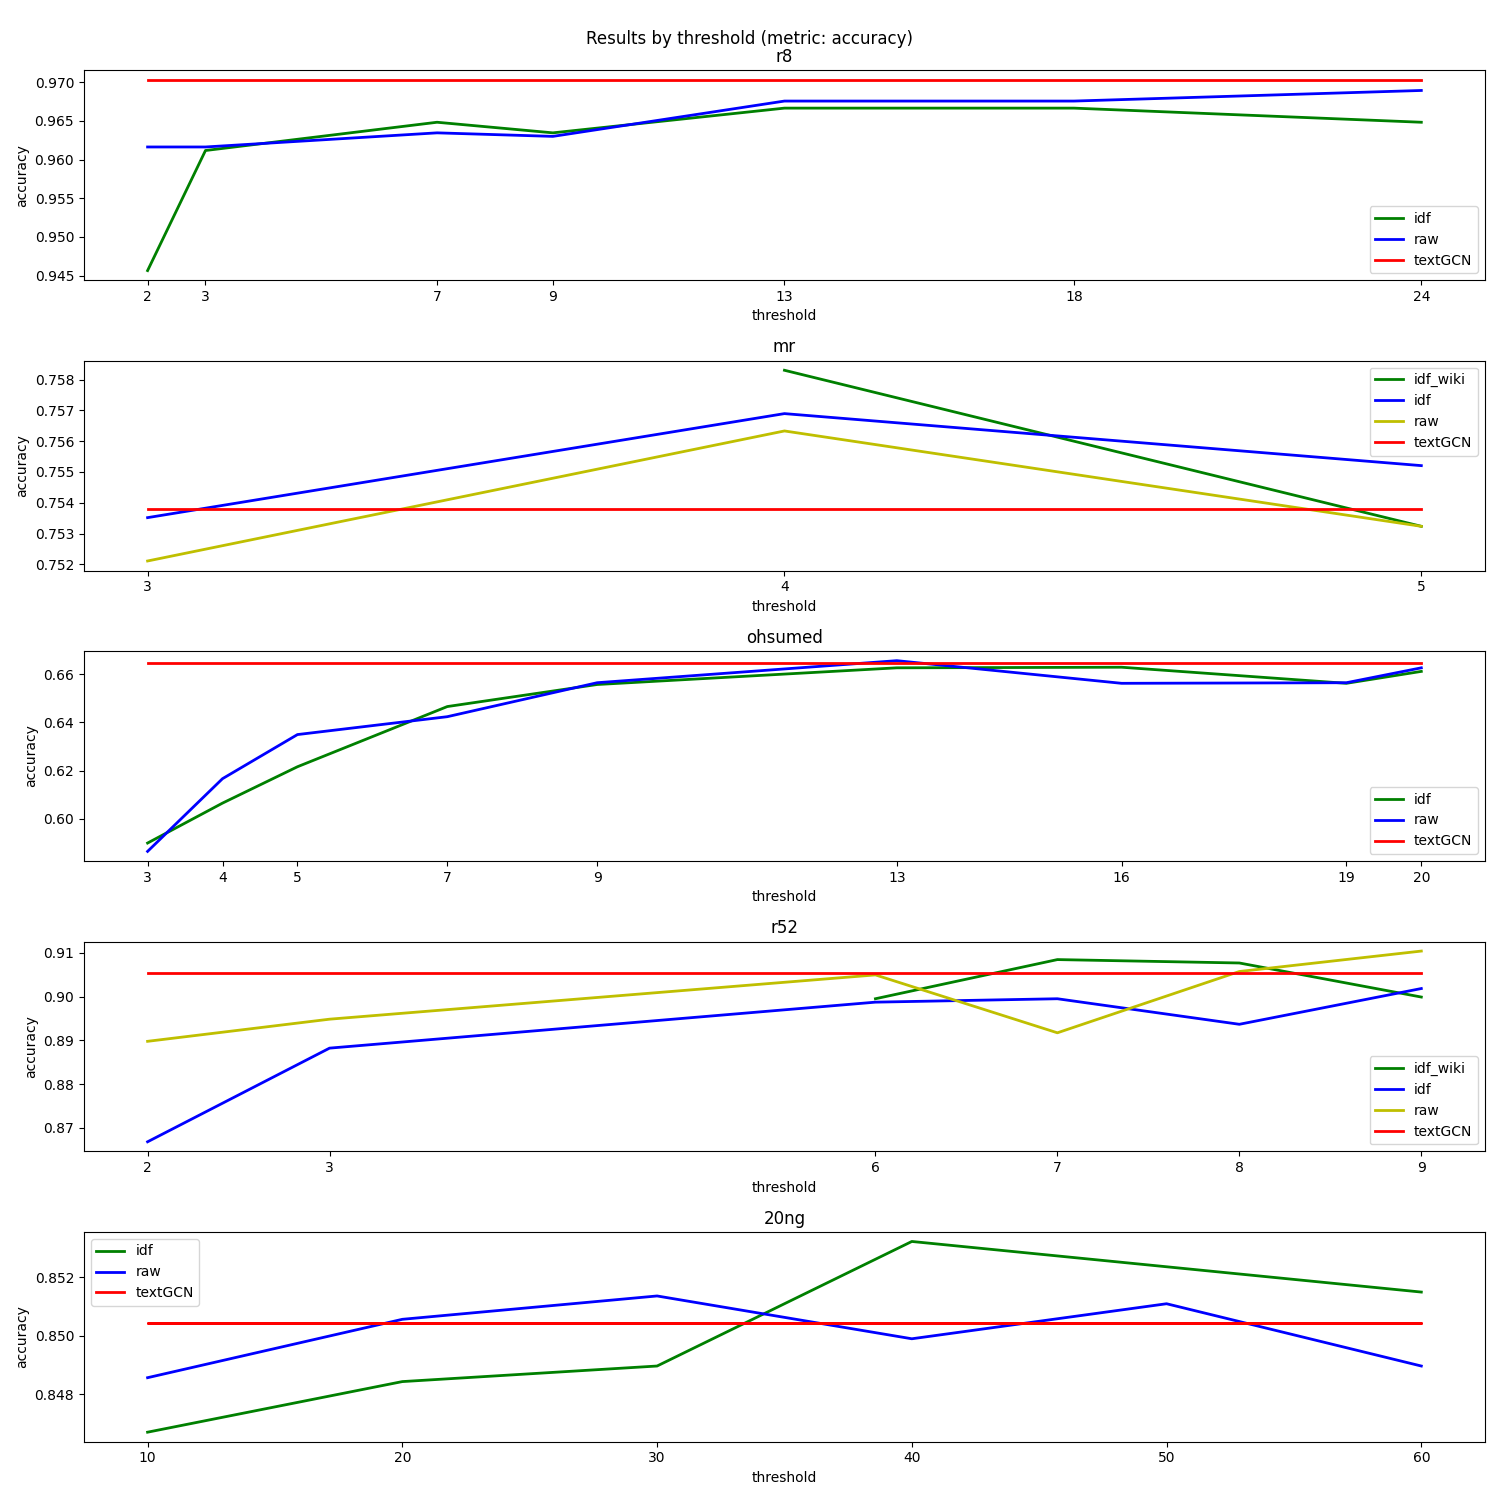
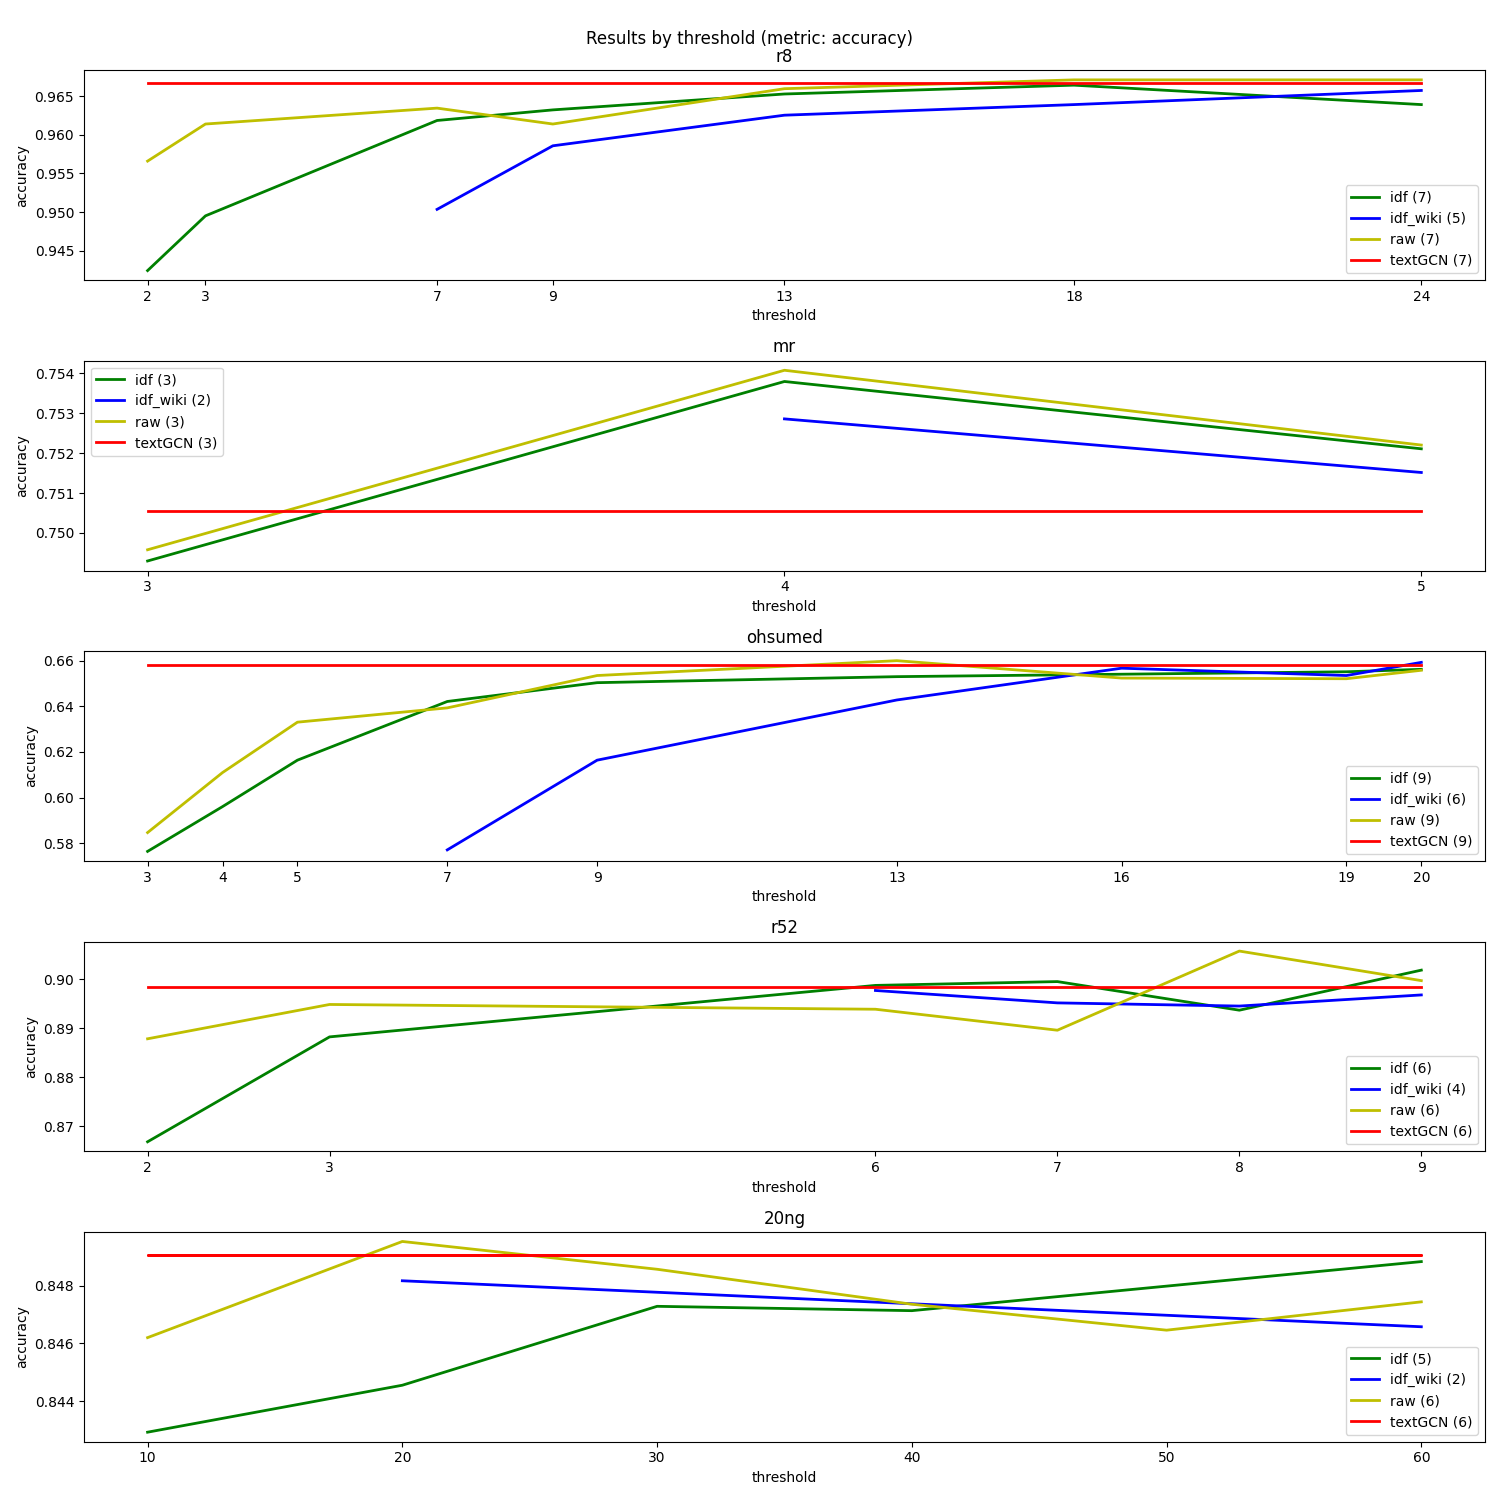
Update results logs

diff --git a/analyze_results.py b/analyze_results.py
@@ -32,7 +32,7 @@ def analyze_results(dataset):
     for w in window_size:
         reference = data[(data["wiki_enabled"] == False) & (data["window_size"] == w)].iloc[:, 5:]
         count = reference.shape[0]
-        references.append([count, False, w, "NaN", "NaN"] + reference.max().tolist())
+        references.append([count, False, w, "NaN", "NaN"] + reference.mean().tolist())
         for t in threshold:
             for r in raw_count:
                 filtered_data = data[
@@ -43,7 +43,7 @@ def analyze_results(dataset):
                     ].iloc[:, 5:]
                 count = filtered_data.shape[0]
                 meta = [count, True, w, r, t]
-                results.append(meta + filtered_data.max().tolist())
+                results.append(meta + filtered_data.mean().tolist())
 
     total = references + results
     results_df = pd.DataFrame(total)
@@ -100,7 +100,7 @@ def plot_results(data, ax, metric, dataset):
             labels = list(value.keys())
             metrics = [value[t] for t in value]
         assert len(metrics) == len(labels)
-        ax.plot(labels, metrics, color, label=name, linewidth=2)
+        ax.plot(labels, metrics, color, label=f"{name} ({len(metrics)})", linewidth=2)
         counter += 1
 
     ax.legend()
